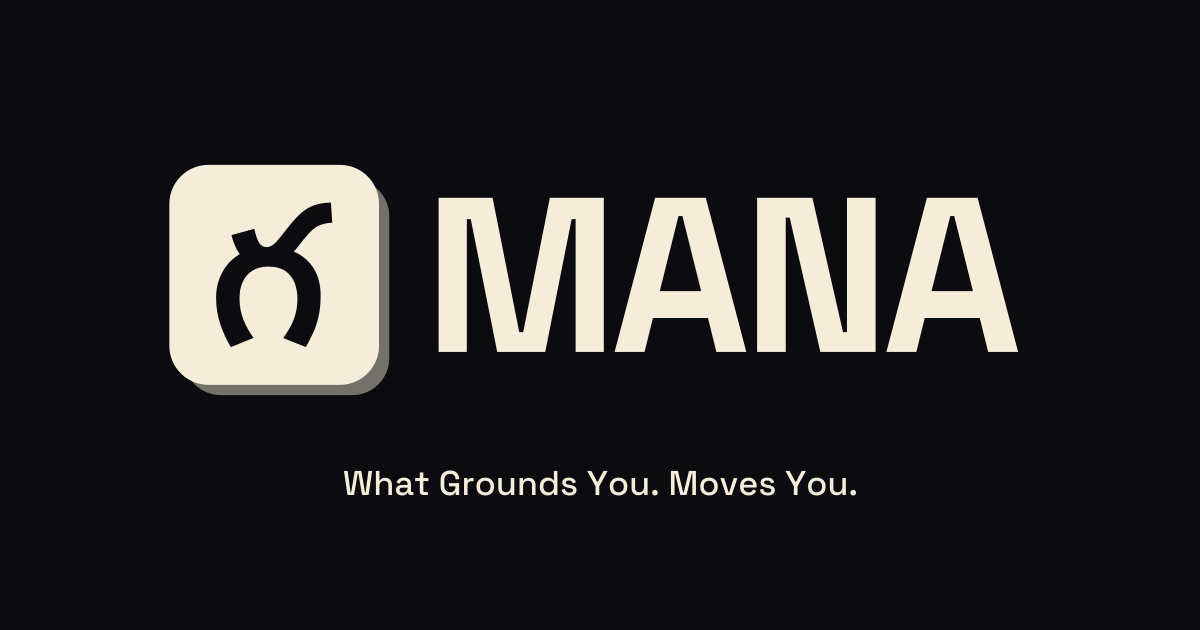
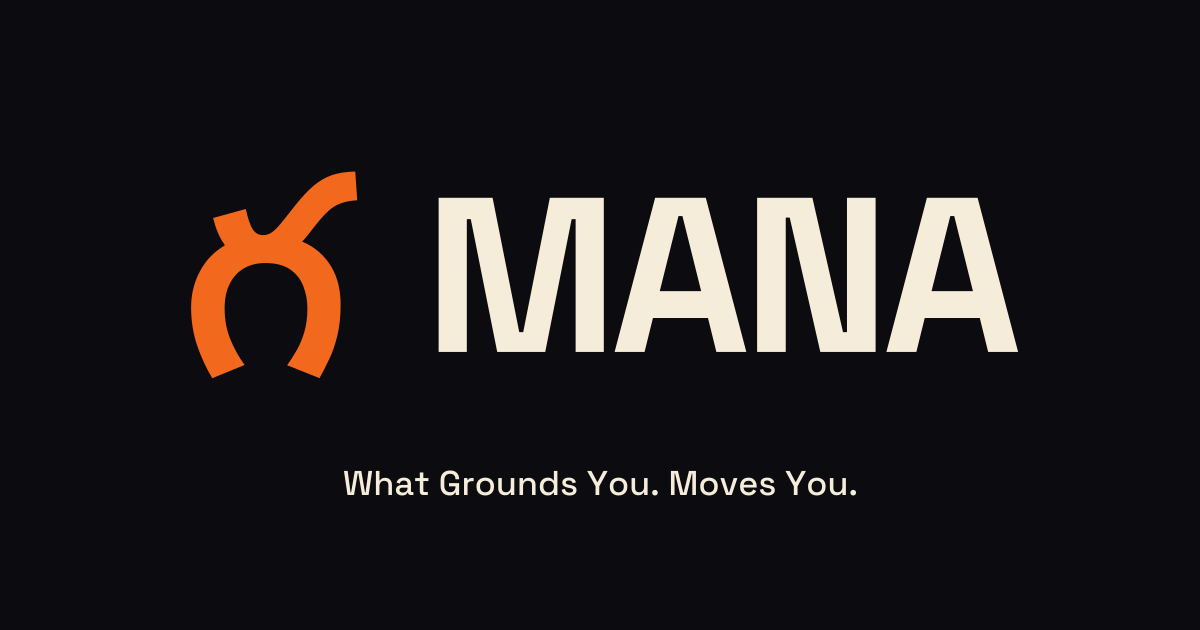
Highlight Telugu glyph with borderless Ember accents

Changed region(s): [[0.1233, 0.2413, 0.3392, 0.6333]]

diff --git a/tests/brand-name.test.ts b/tests/brand-name.test.ts
@@ -5,13 +5,14 @@ import assert from "node:assert/strict";
 import { createElement } from "react";
 import { renderToStaticMarkup } from "react-dom/server";
 import { BrandGlyph, BrandName, BrandText } from "../src/components/brand-name";
-import { BRAND_NAME, BRAND_INITIAL_COLOR, brandContent, brandCopy } from "../src/lib/brand-name";
+import { BRAND_NAME, BRAND_INITIAL_COLOR, BRAND_INITIAL_COLOR_ON_DARK, brandContent, brandCopy } from "../src/lib/brand-name";
 import { brand, colors } from "../src/lib/brand";
 
-test("canonical display name uses the exact Telugu/Latin spelling and primary colour", () => {
+test("canonical display name uses the exact Telugu/Latin spelling and approved accent colours", () => {
   assert.equal(brand.name, "గMANA");
   assert.equal(BRAND_NAME, brand.name);
-  assert.equal(BRAND_INITIAL_COLOR, colors.kalam);
+  assert.equal(BRAND_INITIAL_COLOR, "#C94A10");
+  assert.equal(BRAND_INITIAL_COLOR_ON_DARK, colors.ember);
   const markup = renderToStaticMarkup(createElement(BrandName));
   assert.match(markup, /aria-label="గMANA"/);
   assert.match(markup, /class="brand-initial" lang="te" aria-hidden="true"><svg/);
@@ -50,23 +51,41 @@ test("standalone Telugu glyph is outlined, accessible and uses only existing ide
   const markup = renderToStaticMarkup(createElement(BrandGlyph));
   assert.match(markup, /aria-label="గMANA symbol — గ"/);
   assert.match(markup, /viewBox="0 0 512 512"/);
-  assert.match(markup, /<path fill="#0B0B10"/);
+  assert.match(markup, /<path fill="#C94A10"/);
   assert.doesNotMatch(markup, /<text|<image|runner|<rect/);
   const onDark = renderToStaticMarkup(createElement(BrandGlyph, { onDark: true }));
-  assert.match(onDark, /<rect width="512" height="512" fill="#F5EDDA"/);
-  assert.match(onDark, /<path fill="#0B0B10"/);
+  assert.doesNotMatch(onDark, /<rect|stroke=/);
+  assert.match(onDark, /<path fill="#F2691E"/);
 });
 
 
 test("standalone SVG matches the shared master and app icons retain the required sizes", () => {
   const svg = readFileSync("public/images/brand/ga-glyph.svg", "utf8");
   assert.ok(svg.includes(`d="${BRAND_GLYPH_PATH}"`));
-  assert.match(svg, /fill="#0B0B10"/);
+  assert.match(svg, /fill="#C94A10"/);
   assert.doesNotMatch(svg, /<text|<image|runner/);
   for (const [name, size] of [["icon", 256], ["apple-icon", 180]] as const) {
     const png = readFileSync(`src/app/${name}.png`);
     assert.equal(png.subarray(1, 4).toString(), "PNG");
     assert.equal(png.readUInt32BE(16), size);
     assert.equal(png.readUInt32BE(20), size);
+  }
+});
+
+
+test("wordmark glyph emphasis is borderless, transparent and uses surface-specific Ember accents", () => {
+  const css = readFileSync("src/app/globals.css", "utf8");
+  const rule = css.match(/\.brand-initial \{([^}]+)\}/)?.[1] ?? "";
+  assert.match(rule, /color: var\(--color-ember-deep\)/);
+  assert.match(rule, /background: transparent/);
+  assert.match(rule, /border: 0/);
+  assert.match(rule, /box-shadow: none/);
+  assert.match(css, /\.brand-name-on-dark \.brand-initial \{ color: var\(--color-ember\); \}/);
+  for (const name of ["gamana-lockup", "gamana-lockup-dark"]) {
+    const svg = readFileSync(`public/images/brand/${name}.svg`, "utf8");
+    assert.equal((svg.match(/<rect/g) ?? []).length, 1, "Only the overall artboard has a background");
+    assert.doesNotMatch(svg, /stroke=|rx=|opacity=/);
+    assert.ok(svg.includes(BRAND_GLYPH_PATH));
+    assert.ok(svg.includes(name.endsWith("dark") ? '#F2691E' : '#C94A10'));
   }
 });

diff --git a/src/lib/brand-glyph.ts b/src/lib/brand-glyph.ts
@@ -1,4 +1,6 @@
 /** Telugu గ outline from self-hosted Noto Sans Telugu 600 (SIL Open Font License).
  * A font-independent master for the standalone brand symbol; not a garment print. */
 export const BRAND_GLYPH_VIEWBOX = "0 0 512 512";
+/** Tight optical crop for the borderless inline wordmark; outline is unchanged. */
+export const BRAND_WORDMARK_GLYPH_VIEWBOX = "104 68 304 376";
 export const BRAND_GLYPH_PATH = "M304.5558583106267 198.12534059945503Q307.9891008174387 199.59673024523158 311.4223433242507 201.06811989100817Q340.3596730245232 215.78201634877382 356.0544959128066 242.75749318801087Q371.74931880108994 269.7329700272479 371.74931880108994 307.98910081743867Q371.74931880108994 338.3978201634877 366.1089918256131 361.6948228882834Q360.46866485013624 384.991825613079 351.8855585831063 402.89373297002726Q343.3024523160763 420.79564032697544 334.9645776566757 436.0L278.56130790190736 413.43869209809264Q287.3896457765668 401.17711171662125 295.4822888283379 386.95367847411444Q303.57493188010903 372.7302452316076 308.724795640327 354.8283378746594Q313.87465940054494 336.9264305177112 313.87465940054494 314.8555858310626Q313.87465940054494 293.76566757493185 306.76294277929156 275.6185286103542Q299.6512261580382 257.4713896457765 283.71117166212537 246.4359673024523Q267.77111716621255 235.40054495912804 240.30517711171663 235.40054495912804Q218.724795640327 235.40054495912804 202.78474114441417 244.96457765667571Q186.84468664850135 254.52861035422342 178.2615803814714 272.18528610354224Q169.67847411444143 289.841961852861 169.67847411444143 313.87465940054494Q169.67847411444143 344.283378746594 179.73297002724797 368.56130790190736Q189.7874659400545 392.8392370572207 204.50136239782017 412.9482288828338L148.09809264305176 436.0Q132.4032697547684 410.00544959128064 121.85831062670299 379.10626702997274Q111.31335149863759 348.20708446866485 111.31335149863759 312.89373297002726Q111.31335149863759 278.56130790190736 126.51771117166211 250.11444141689373Q141.2316076294278 221.6675749318801 170.16893732970027 204.50136239782015Q169.18801089918256 203.52043596730243 168.6975476839237 202.04904632152588Q156.92643051771117 185.86376021798364 149.56948228882834 156.92643051771114L206.4632152588556 141.2316076294278Q212.34877384196184 167.2261580381471 218.9700272479564 177.03542234332423Q225.59128065395095 186.84468664850135 236.87193460490462 186.84468664850135Q245.20980926430516 186.84468664850135 253.05722070844683 181.2043596730245Q260.90463215258853 175.56403269754765 274.14713896457766 158.39782016348772L292.78474114441417 134.85558583106263Q309.9509536784741 113.27520435967301 324.6648501362398 100.7683923705722Q339.37874659400546 88.26158038147139 356.29972752043597 82.37602179836512Q373.22070844686647 76.49046321525884 397.2534059945504 76.0L400.6866485013624 126.02724795640324Q384.01089918256133 127.00817438692098 371.99455040871936 131.42234332425068Q359.9782016348774 135.83651226158037 350.4141689373297 144.66485013623978Q340.85013623978205 153.4931880108992 329.0790190735695 168.20708446866485L314.8555858310627 186.35422343324248Q309.9509536784741 192.73024523160763 304.5558583106267 198.12534059945503Z";

diff --git a/src/components/brand-name.tsx b/src/components/brand-name.tsx
@@ -1,19 +1,18 @@
 import React, { Fragment } from "react";
-import { brandCopy, BRAND_NAME, BRAND_INITIAL_COLOR } from "@/lib/brand-name";
-import { BRAND_GLYPH_PATH, BRAND_GLYPH_VIEWBOX } from "@/lib/brand-glyph";
+import { brandCopy, BRAND_NAME, BRAND_INITIAL_COLOR, BRAND_INITIAL_COLOR_ON_DARK } from "@/lib/brand-name";
+import { BRAND_GLYPH_PATH, BRAND_GLYPH_VIEWBOX, BRAND_WORDMARK_GLYPH_VIEWBOX } from "@/lib/brand-glyph";
 
 /** Standalone brand symbol. The outlined glyph does not depend on font loading. */
 export function BrandGlyph({ onDark = false, className = "", size = 32 }: { onDark?: boolean; className?: string; size?: number }) {
   return <svg xmlns="http://www.w3.org/2000/svg" viewBox={BRAND_GLYPH_VIEWBOX} width={size} height={size} role="img" aria-label={`${BRAND_NAME} symbol — గ`} className={className}>
-    {onDark && <rect width="512" height="512" fill="#F5EDDA" />}
-    <path fill={BRAND_INITIAL_COLOR} d={BRAND_GLYPH_PATH} />
+    <path fill={onDark ? BRAND_INITIAL_COLOR_ON_DARK : BRAND_INITIAL_COLOR} d={BRAND_GLYPH_PATH} />
   </svg>;
 }
 
 /** One shared lockup for navigation, footers, copy and admin. */
 export function BrandName({ onDark = false, className = "" }: { onDark?: boolean; className?: string }) {
   return <span className={`brand-name${onDark ? " brand-name-on-dark" : ""} ${className}`} aria-label={BRAND_NAME}>
-    <span className="brand-initial" lang="te" aria-hidden="true"><svg viewBox={BRAND_GLYPH_VIEWBOX} focusable="false" aria-hidden="true"><path d={BRAND_GLYPH_PATH} fill="currentColor" /></svg><span className="sr-only">గ</span></span><span className="brand-latin" aria-hidden="true">MANA</span>
+    <span className="brand-initial" lang="te" aria-hidden="true"><svg viewBox={BRAND_WORDMARK_GLYPH_VIEWBOX} focusable="false" aria-hidden="true"><path d={BRAND_GLYPH_PATH} fill="currentColor" /></svg><span className="sr-only">గ</span></span><span className="brand-latin" aria-hidden="true">MANA</span>
   </span>;
 }
 

diff --git a/src/app/globals.css b/src/app/globals.css
@@ -583,10 +583,10 @@ html { scroll-padding-top: 110px; }
 
 /* Owner-approved glyph-first identity. Shared by storefront, editorial and admin. */
 .brand-name { display: inline-flex; align-items: center; gap: .14em; vertical-align: -.25em; white-space: nowrap; text-transform: none; letter-spacing: inherit; line-height: 1.15; }
-.brand-initial { position: relative; display: inline-flex; flex: 0 0 auto; align-items: center; justify-content: center; width: 1.32em; height: 1.38em; color: var(--color-kalam); background: var(--color-bone); border: max(1px, .025em) solid var(--color-kalam); border-radius: .24em; box-shadow: .065em .065em 0 var(--color-kalam); line-height: 1; letter-spacing: 0; }
+.brand-initial { display: inline-flex; flex: 0 0 auto; align-items: center; justify-content: center; width: .88em; height: 1.1em; color: var(--color-ember-deep); background: transparent; border: 0; border-radius: 0; box-shadow: none; line-height: 1; letter-spacing: 0; }
 .brand-initial > svg { display: block; width: 100%; height: 100%; overflow: visible; }
 .brand-latin { font-family: inherit; }
-.brand-name-on-dark .brand-initial { border-color: var(--color-bone); box-shadow: .065em .065em 0 color-mix(in srgb, var(--color-bone) 45%, transparent); }
+.brand-name-on-dark .brand-initial { color: var(--color-ember); }
 .footer-wordmark { font-size: clamp(72px, 17.5vw, 260px); line-height: 1.1; padding-block: .08em; }
 .footer-wordmark .brand-name { letter-spacing: -.055em; }
 .bay-signoff-wordmark { margin-top: 55px; font: 700 25px/1.3 var(--font-display); letter-spacing: -.04em; }

diff --git a/src/lib/brand-name.ts b/src/lib/brand-name.ts
@@ -1,7 +1,9 @@
 import { shippingCopy } from "./shipping";
 /** Display branding only. Never apply this to URLs, identifiers, or saved order data. */
 export const BRAND_NAME = "గMANA";
-export const BRAND_INITIAL_COLOR = "#0B0B10";
+// Existing Ember tones: deeper on light surfaces, brighter on dark surfaces.
+export const BRAND_INITIAL_COLOR = "#C94A10";
+export const BRAND_INITIAL_COLOR_ON_DARK = "#F2691E";
 
 export function brandCopy(text: string): string {
   return shippingCopy(text.replace(/\bGAMANA\b/g, BRAND_NAME));

diff --git a/docs/GAMANA-Brand-Spec.md b/docs/GAMANA-Brand-Spec.md
@@ -1,4 +1,4 @@
-# గMANA — Brand & Design System Spec v1.3
+# గMANA — Brand & Design System Spec v1.4
 
 *Companion to the GAMANA Brand Identity Document v1.0.*
 *Site: https://gamana-wear.vercel.app · Repo: github.com/gamana-design/gamana-website*
@@ -9,8 +9,9 @@
 
 **The Telugu గ is the hero glyph, not an ordinary initial.** Every new brand
 lockup must visibly highlight it rather than shrink it to match the Latin text.
-The website uses the outlined Telugu master inside a larger Bone badge, with
-Kalam Ink glyph/stroke and a small offset shadow. It scales together with MANA
+The website uses the outlined Telugu master with **no box, border, backing
+badge or shadow**. The glyph stands out using existing Ember Deep `#C94A10`
+on light surfaces and Ember `#F2691E` on dark surfaces. It scales together with MANA
 without wrapping; use `BrandName` / `BrandText` throughout storefront and admin.
 The glyph is font-independent and accessible under the exact name గMANA.
 
@@ -26,7 +27,9 @@ SVGs have outlined letters, no external fonts or images; source letterforms
 are self-hosted Space Grotesk and Noto Sans Telugu (SIL Open Font License).
 These are new branding masters, not replacements for artwork printed on
 products. Existing garment imagery is untouched. The general colour-palette
-rethink remains on hold: use existing Kalam Ink `#0B0B10` and Bone `#F5EDDA`.
+rethink remains on hold: keep existing Kalam Ink `#0B0B10` and Bone `#F5EDDA` surfaces and the
+approved Ember accents. The owner's borderless colour correction supersedes
+the previous ink-only/badged glyph treatment.
 
 **Selling point: “Free shipping across India. Always.”** Delivery is already
 included in every product price, with no minimum spend or extra shipping
@@ -54,8 +57,9 @@ Founded 2026 in Hyderabad, India. Markets: India & USA. Lines: **URBAN** × **CO
 ## 2. Colour
 
 **Owner hold:** a general colour rethink is on hold. Keep the current palette
-unchanged until the owner resumes it. The new glyph uses existing Kalam Ink
-and Bone only; it does not introduce a new colour scheme.
+unchanged until the owner resumes it. The borderless glyph uses the existing
+Ember Deep/Ember accents; this targeted owner correction does not introduce
+a new site colour scheme.
 
 Every value below was **sampled directly from the live brand artwork** in Drive
 (the Godavari tees, the gradient wordmark, the printed posters) — not chosen from
@@ -103,11 +107,11 @@ The primary website wordmark is **గMANA**: the Telugu letter **గ** immediate
 followed by uppercase Latin **MANA**. Do not append a second Telugu sub-line or
 include literal asterisks.
 
-- The Telugu initial uses **Kalam Ink `#0B0B10`**, the primary brand colour.
-- On dark surfaces, a Bone backing preserves the initial's contrast while the
-  Latin letters can follow the light text treatment.
-- Telugu uses the outlined Noto Sans Telugu 600 glyph master in a larger
-  Bone badge with an offset shadow; never shrink it to match Latin cap height.
+- The Telugu glyph uses **Ember Deep `#C94A10`** on light surfaces and
+  **Ember `#F2691E`** on dark surfaces. Keep MANA in the surrounding text colour.
+- Do not add a box, border, backing badge or shadow around the glyph.
+- Telugu uses the outlined Noto Sans Telugu 600 glyph master with borderless colour emphasis;
+  never shrink it into an ordinary text initial.
   The wordmark's Latin letters use Space Grotesk. In prose they can inherit
   the paragraph font. The full name must remain unbroken.
 - The shared `BrandName` and `BrandText` components keep spelling and treatment
@@ -128,8 +132,7 @@ wordmark stays unchanged.
   Telugu 600 (SIL Open Font License), so it renders without a font download.
 - Shared component: `BrandGlyph` in `src/components/brand-name.tsx`.
 - Browser icon: `src/app/icon.png`; home-screen icon: `src/app/apple-icon.png`.
-- Use existing Kalam Ink for the glyph, with existing Bone behind it on dark
-  surfaces. Keep the shape and proportions intact; do not redraw it as a runner.
+- Use the approved Ember tones for the glyph, with no backing badge. Keep the shape and proportions intact; do not redraw it as a runner.
 - `runner-glyph.png` is retained only as an archival source, not an active logo.
 
 Existing brush artwork, original product photography and the old runner are

diff --git a/AGENTS.md b/AGENTS.md
@@ -41,14 +41,14 @@ These preferences apply to future work on this project as well as the current re
 ## Brand-name display rule (owner update)
 
 - Represent the brand as **గMANA** everywhere in website text: Telugu **గ** followed by uppercase Latin **MANA**. The asterisks in the owner's message were formatting, not part of the name.
-- The Telugu initial uses primary Kalam Ink (`#0B0B10`). Keep it readable on dark sections using a Bone backing, not a different glyph colour.
+- The Telugu glyph is borderless and colour-accented: existing Ember Deep (`#C94A10`) on light surfaces, Ember (`#F2691E`) on dark surfaces. No box, backing badge, border or shadow around గ. This owner correction supersedes the older Kalam Ink initial rule.
 - Use the shared `BrandName`/`BrandText` components for visible branding, including small labels, editorial copy, footer, navigation and admin. Use the canonical plain string for metadata, accessibility labels and the Razorpay checkout name. Razorpay does not support per-letter name styling.
 - Do not rename URLs, social handles, email addresses, asset paths, environment variables, database identifiers or existing order references. Preserve original garment photography and archival artwork rather than silently editing lettering printed in an image.
 
 ## Standalone glyph and colour hold (owner update)
 
 - The standalone brand symbol is now Telugu **గ**, replacing the runner symbol in website identity and browser/home-screen icons. Keep the **గMANA** wordmark unchanged.
-- Use `BrandGlyph` or `/images/brand/ga-glyph.svg` for standalone identity. The outlined master uses Noto Sans Telugu 600 and existing Kalam Ink; Bone backs it on dark surfaces.
+- Use `BrandGlyph` or `/images/brand/ga-glyph.svg` for standalone identity. The outlined master uses Noto Sans Telugu 600; use the approved Ember tones with no backing badge.
 - Do not modify the runner printed on real garments, product photographs or archival artwork. The old runner asset is archival, not the active website symbol.
 - The general brand colour rethink is **on hold**. Do not change palette values or introduce a new colour scheme until the owner resumes it.
 
@@ -63,5 +63,5 @@ These preferences apply to future work on this project as well as the current re
 ## Free shipping and glyph emphasis (owner update)
 
 - Shipping is always free across India, already included in product prices. Never add a minimum spend, shipping upsell, checkout surcharge or price increase to cover shipping. Browser and server use `src/lib/shipping.ts`; preserve historical order snapshots.
-- The Telugu గ is the hero glyph, not an ordinary text initial. It must visibly stand out from MANA everywhere: use the shared outlined, larger badged `BrandName` / `BrandText` and approved vector/social masters in `docs/GAMANA-Brand-Spec.md`. Retain exact accessible name గMANA, Kalam Ink on Bone and an unbroken wordmark.
+- The Telugu గ is the hero glyph, not an ordinary text initial. It must visibly stand out from MANA everywhere: use the shared outlined, borderless colour-accented `BrandName` / `BrandText` and approved vector/social masters in `docs/GAMANA-Brand-Spec.md`. Retain exact accessible name గMANA and an unbroken wordmark. Only the glyph accent is updated; the wider colour palette remains on hold.
 - This emphasis does not resume the on-hold palette redesign or authorise changing printed garment artwork. External provider names (e.g. Razorpay) remain the exact plain string where custom letter styling is unsupported.
